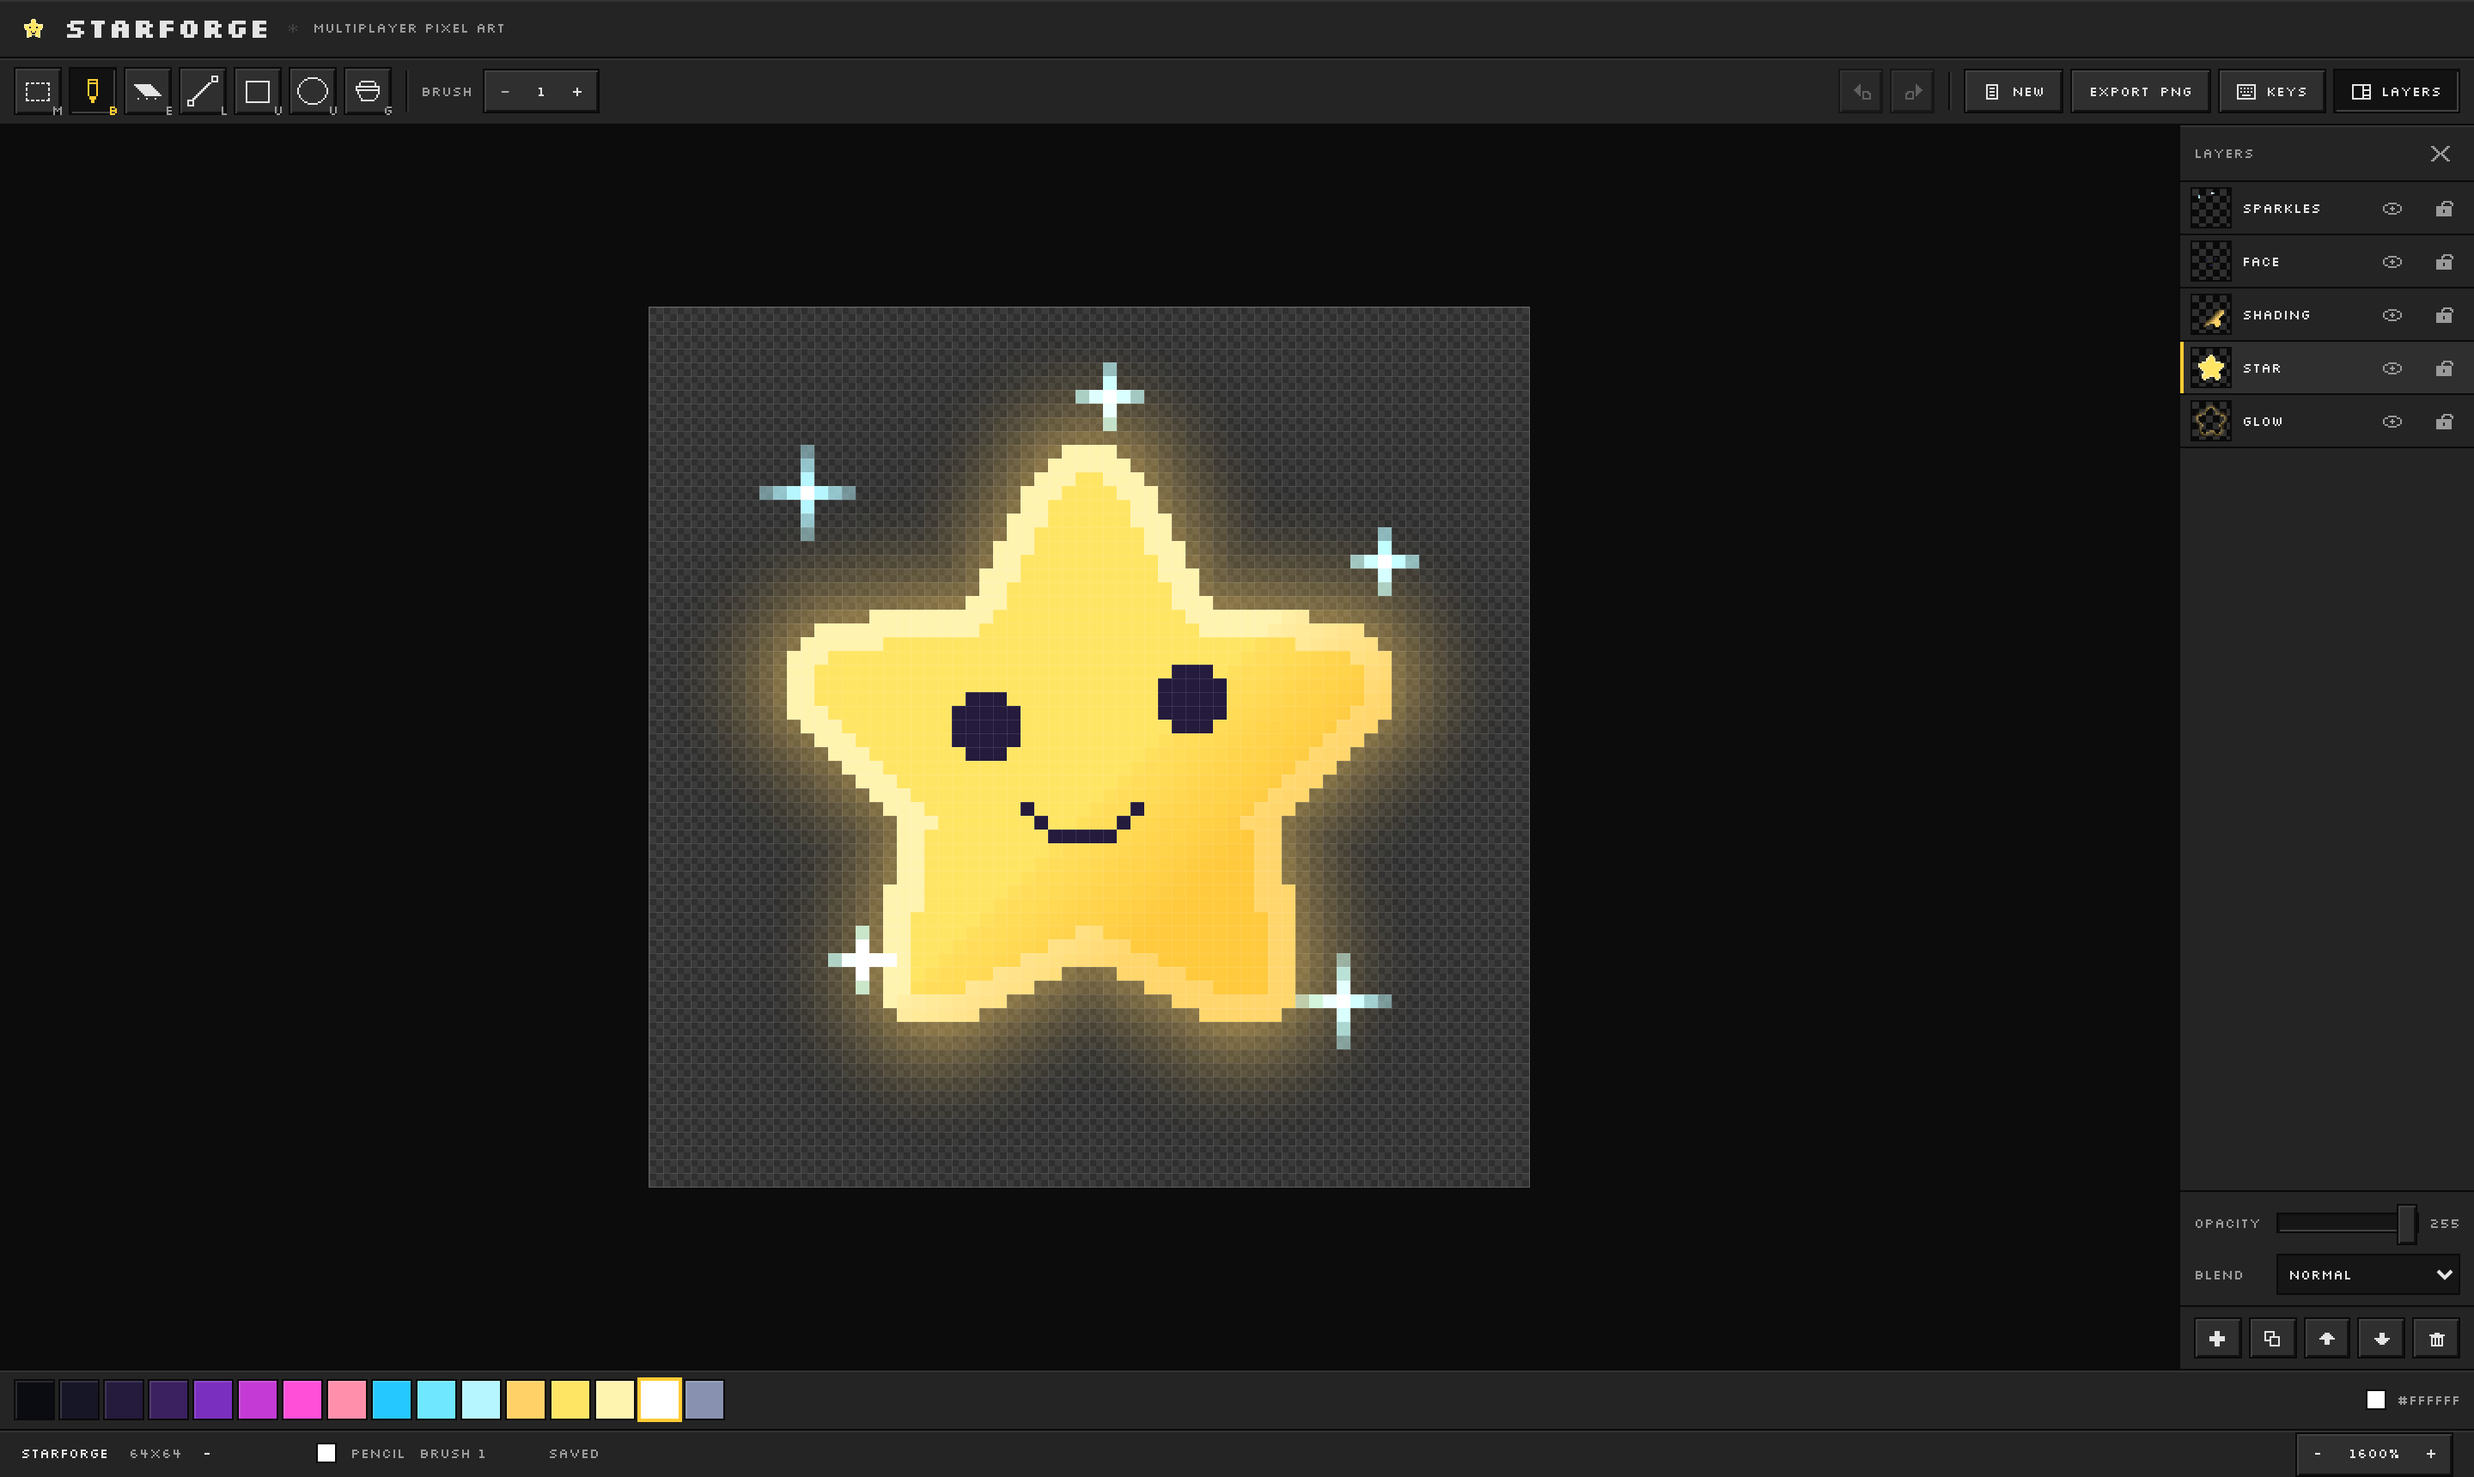
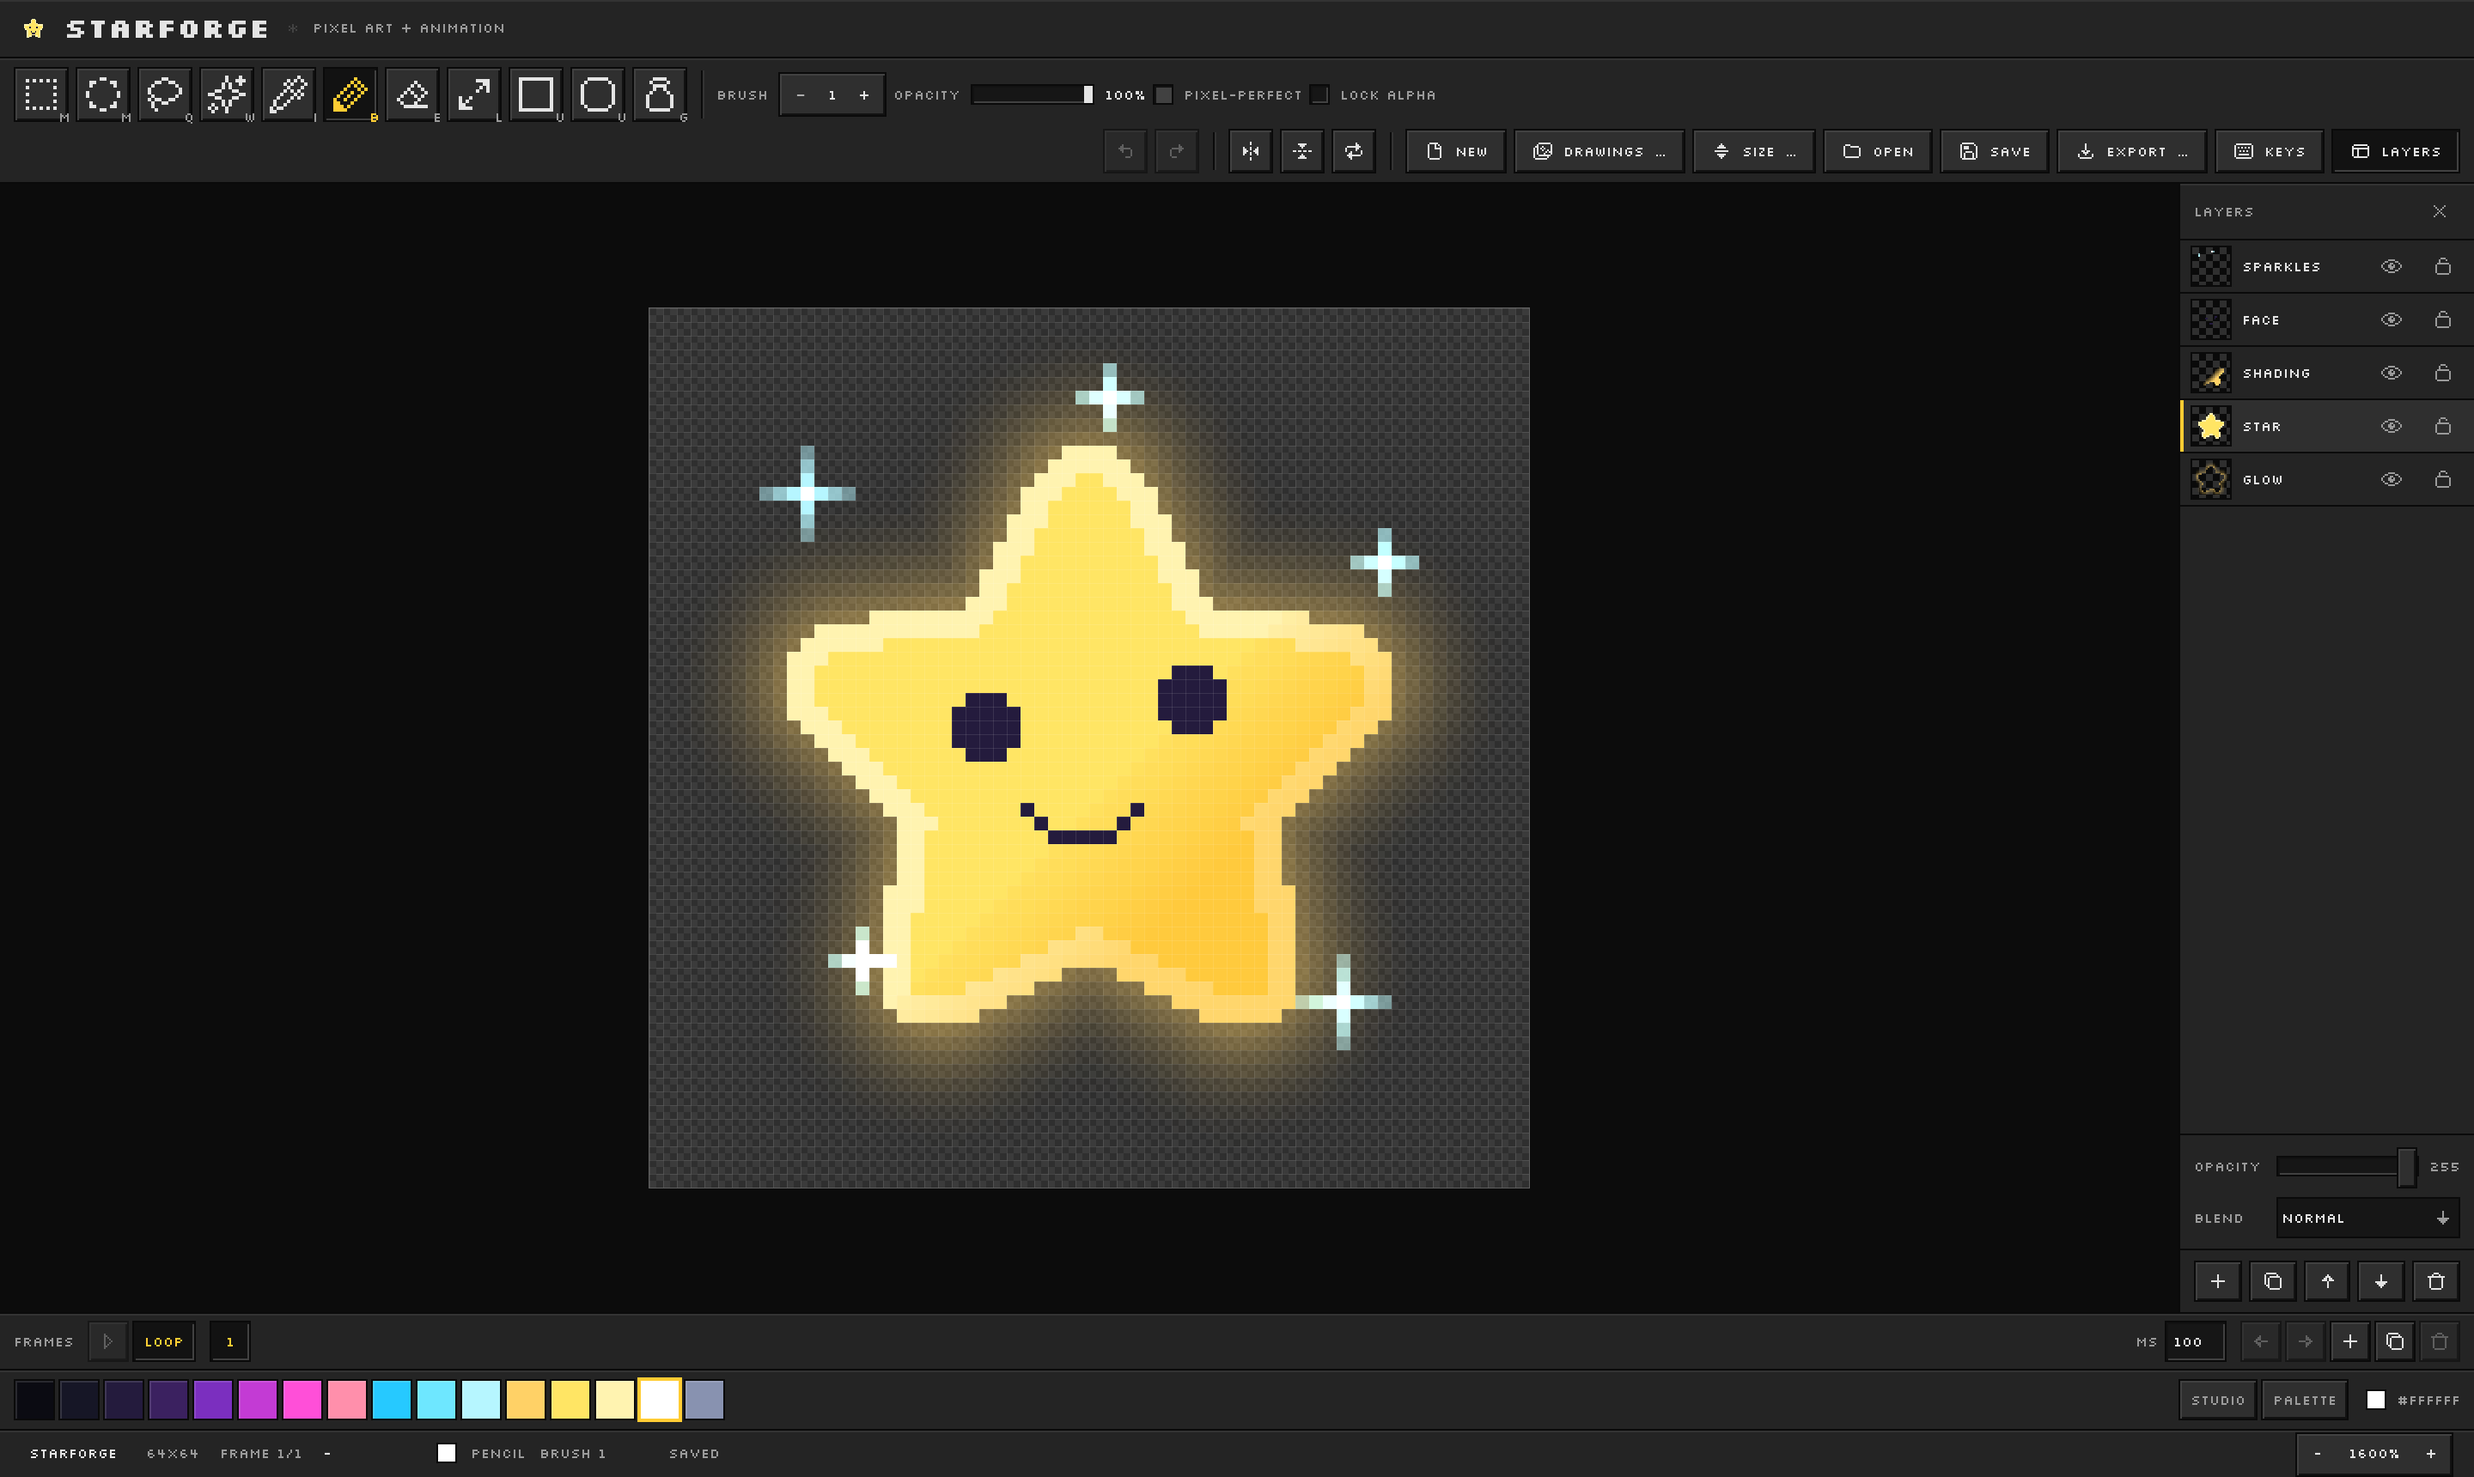
docs: rework on markdown and update editor media

diff --git a/README.md b/README.md
@@ -75,15 +75,13 @@ An npm workspace with two packages, split by what they are allowed to know:
 | `core/`   | document model, operations with inverses, ink kernels, flood fill, geometry, masks, frames, palettes, serialization | nothing    |
 | `client/` | canvas engine, tools, compositor, controllers, UI, storage                                                          | `core`     |
 
-`core/` has zero dependencies on purpose, it is the half that the relay server will also run when multiplayer lands.
-
 ## Roadmap
 
-Shipped: canvas engine, the tool set above, layers, animation frames and
+**Shipped**: canvas engine, the tool set above, layers, animation frames and
 playback, palettes and the Color Studio, project files and portable PNG,
 documents that survive a reload.
 
-Next:
+**Next**:
 
 - onion skin
 - a CRDT for real-time collaboration (LWW per cell with Lamport clocks)
@@ -95,9 +93,7 @@ Next:
 [MIT](LICENSE)
 
 The interface is set in [Silkscreen](https://github.com/googlefonts/silkscreen) by
-Jason Kottke, used under the SIL Open Font License
-([client/public/fonts/OFL.txt](client/public/fonts/OFL.txt)).
+Jason Kottke, used under the SIL Open Font License.
 
 Toolbar and UI icons are from [pixelarticons](https://pixelarticons.com) by
-Gerrit Halfmann, used under the MIT License
-([THIRD-PARTY-LICENSES.md](THIRD-PARTY-LICENSES.md)).
+Gerrit Halfmann, used under the MIT License.
